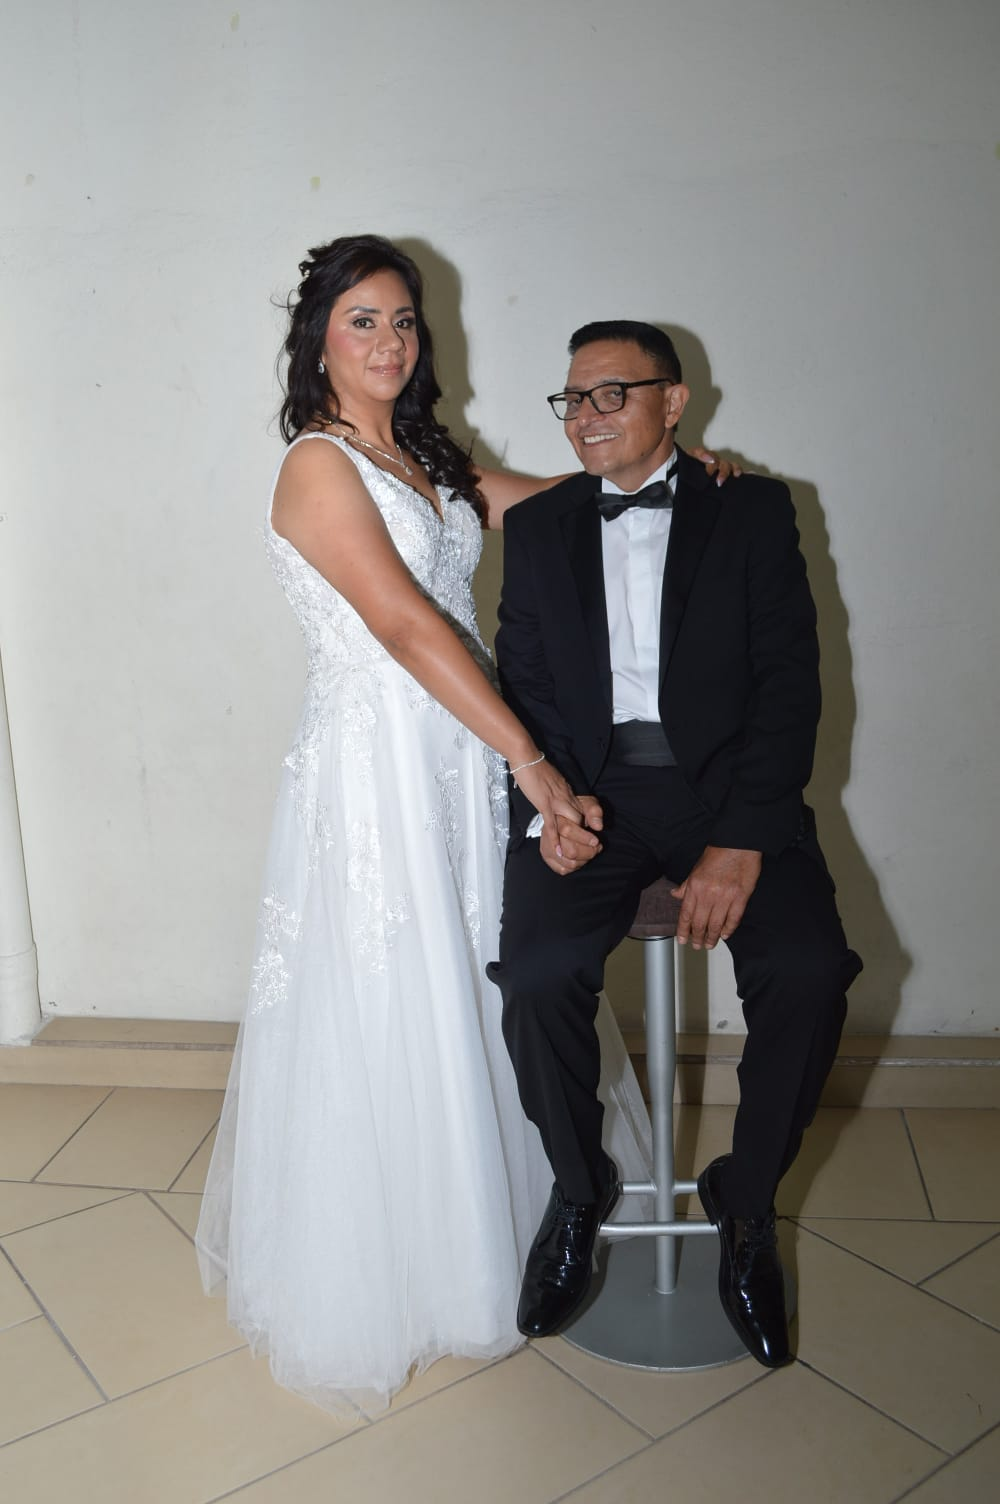
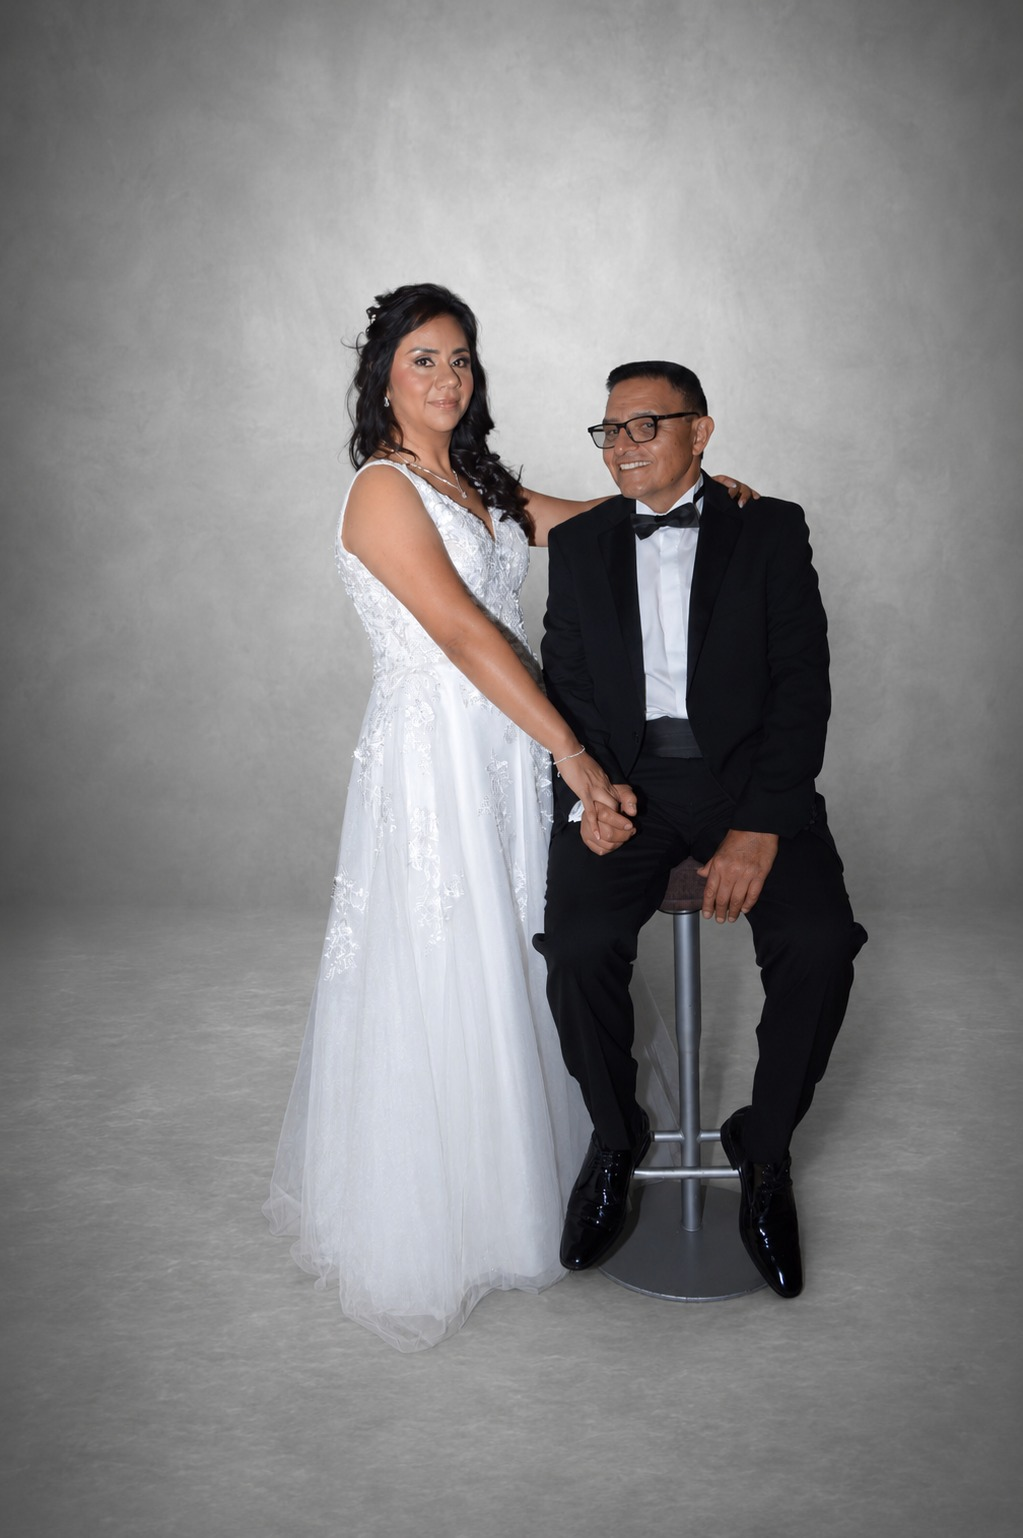
Fotos de estudio profesionales: hero + 3 bandas + carrusel
- Hero: nueva foto con sello S&F sobre fondo piedra dorada
- Banda 1 (juntosporsiempre): fondo gris estudio, escalones
- Banda 2 (nuestroamor): fondo gris, sentados tomados de mano
- Banda 3 (porsiemprenosotros): fondo beige, pose en sofá
- Foto anterior del hero movida al carrusel como tarjeta 6

diff --git a/index.html b/index.html
@@ -873,7 +873,7 @@ section.has-sec-waves{padding-top:84px;padding-bottom:86px}
 <!-- ═══════════════ 1. HERO ════════════════════════════ -->
 <section id="hero">
   <div class="h-bg" id="heroBg">
-    <img src="hero-photo.png" alt="Sandra y Faustino" id="heroPic">
+    <img src="hero-novios.jpg" alt="Sandra y Faustino" id="heroPic">
   </div>
   <div class="h-ov"></div>
 
@@ -1110,6 +1110,7 @@ section.has-sec-waves{padding-top:84px;padding-bottom:86px}
       <div class="wheel-card"><img src="https://bsjoelxktbvlavfoozhk.supabase.co/storage/v1/object/public/fotos-clientes/13b32766-d3cc-409b-a3a3-9d9b4a3d975c/1780198649055-0.jpg" alt="Sandra y Faustino" loading="lazy"></div>
       <div class="wheel-card"><img src="https://bsjoelxktbvlavfoozhk.supabase.co/storage/v1/object/public/fotos-clientes/13b32766-d3cc-409b-a3a3-9d9b4a3d975c/1780198661843-0.jpg" alt="Sandra y Faustino" loading="lazy"></div>
       <div class="wheel-card"><img src="https://bsjoelxktbvlavfoozhk.supabase.co/storage/v1/object/public/fotos-clientes/13b32766-d3cc-409b-a3a3-9d9b4a3d975c/1780198667705-0.jpg" alt="Sandra y Faustino" loading="lazy"></div>
+      <div class="wheel-card"><img src="hero-photo.png" alt="Sandra y Faustino" loading="lazy"></div>
     </div>
   </div>
   <span class="gal-hint">Arrastra para girar · Toca para ampliar</span>
